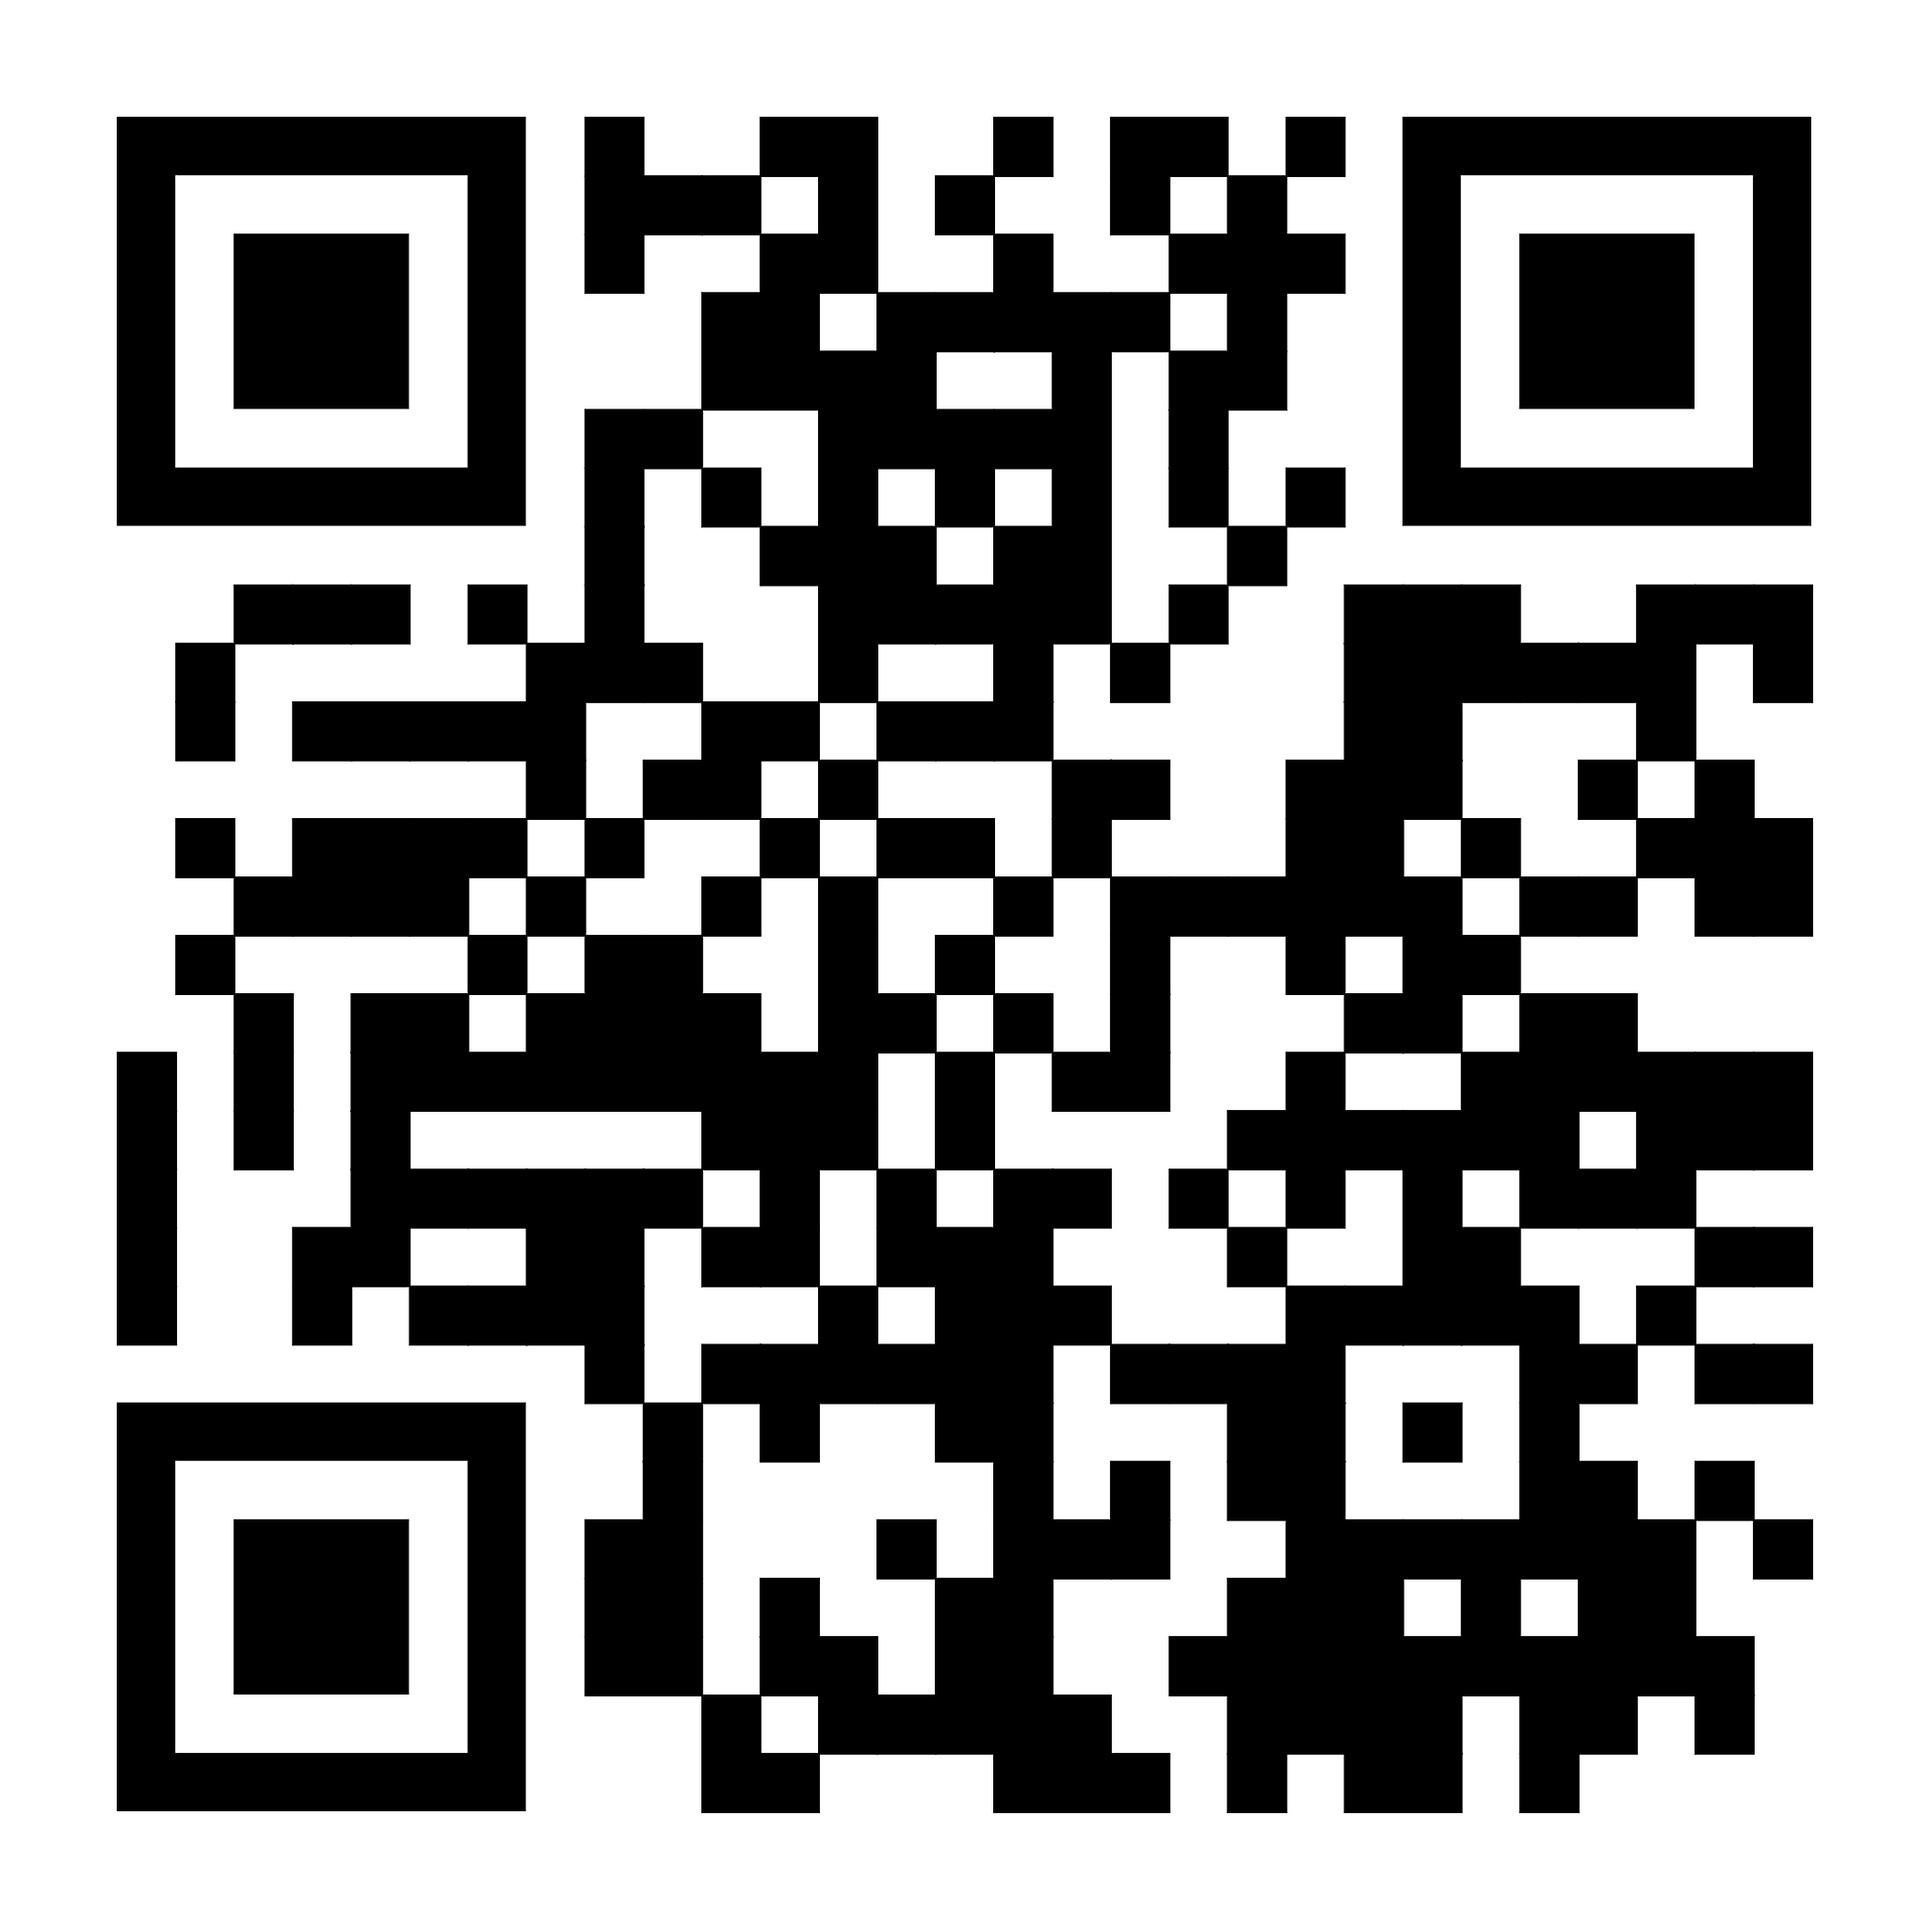
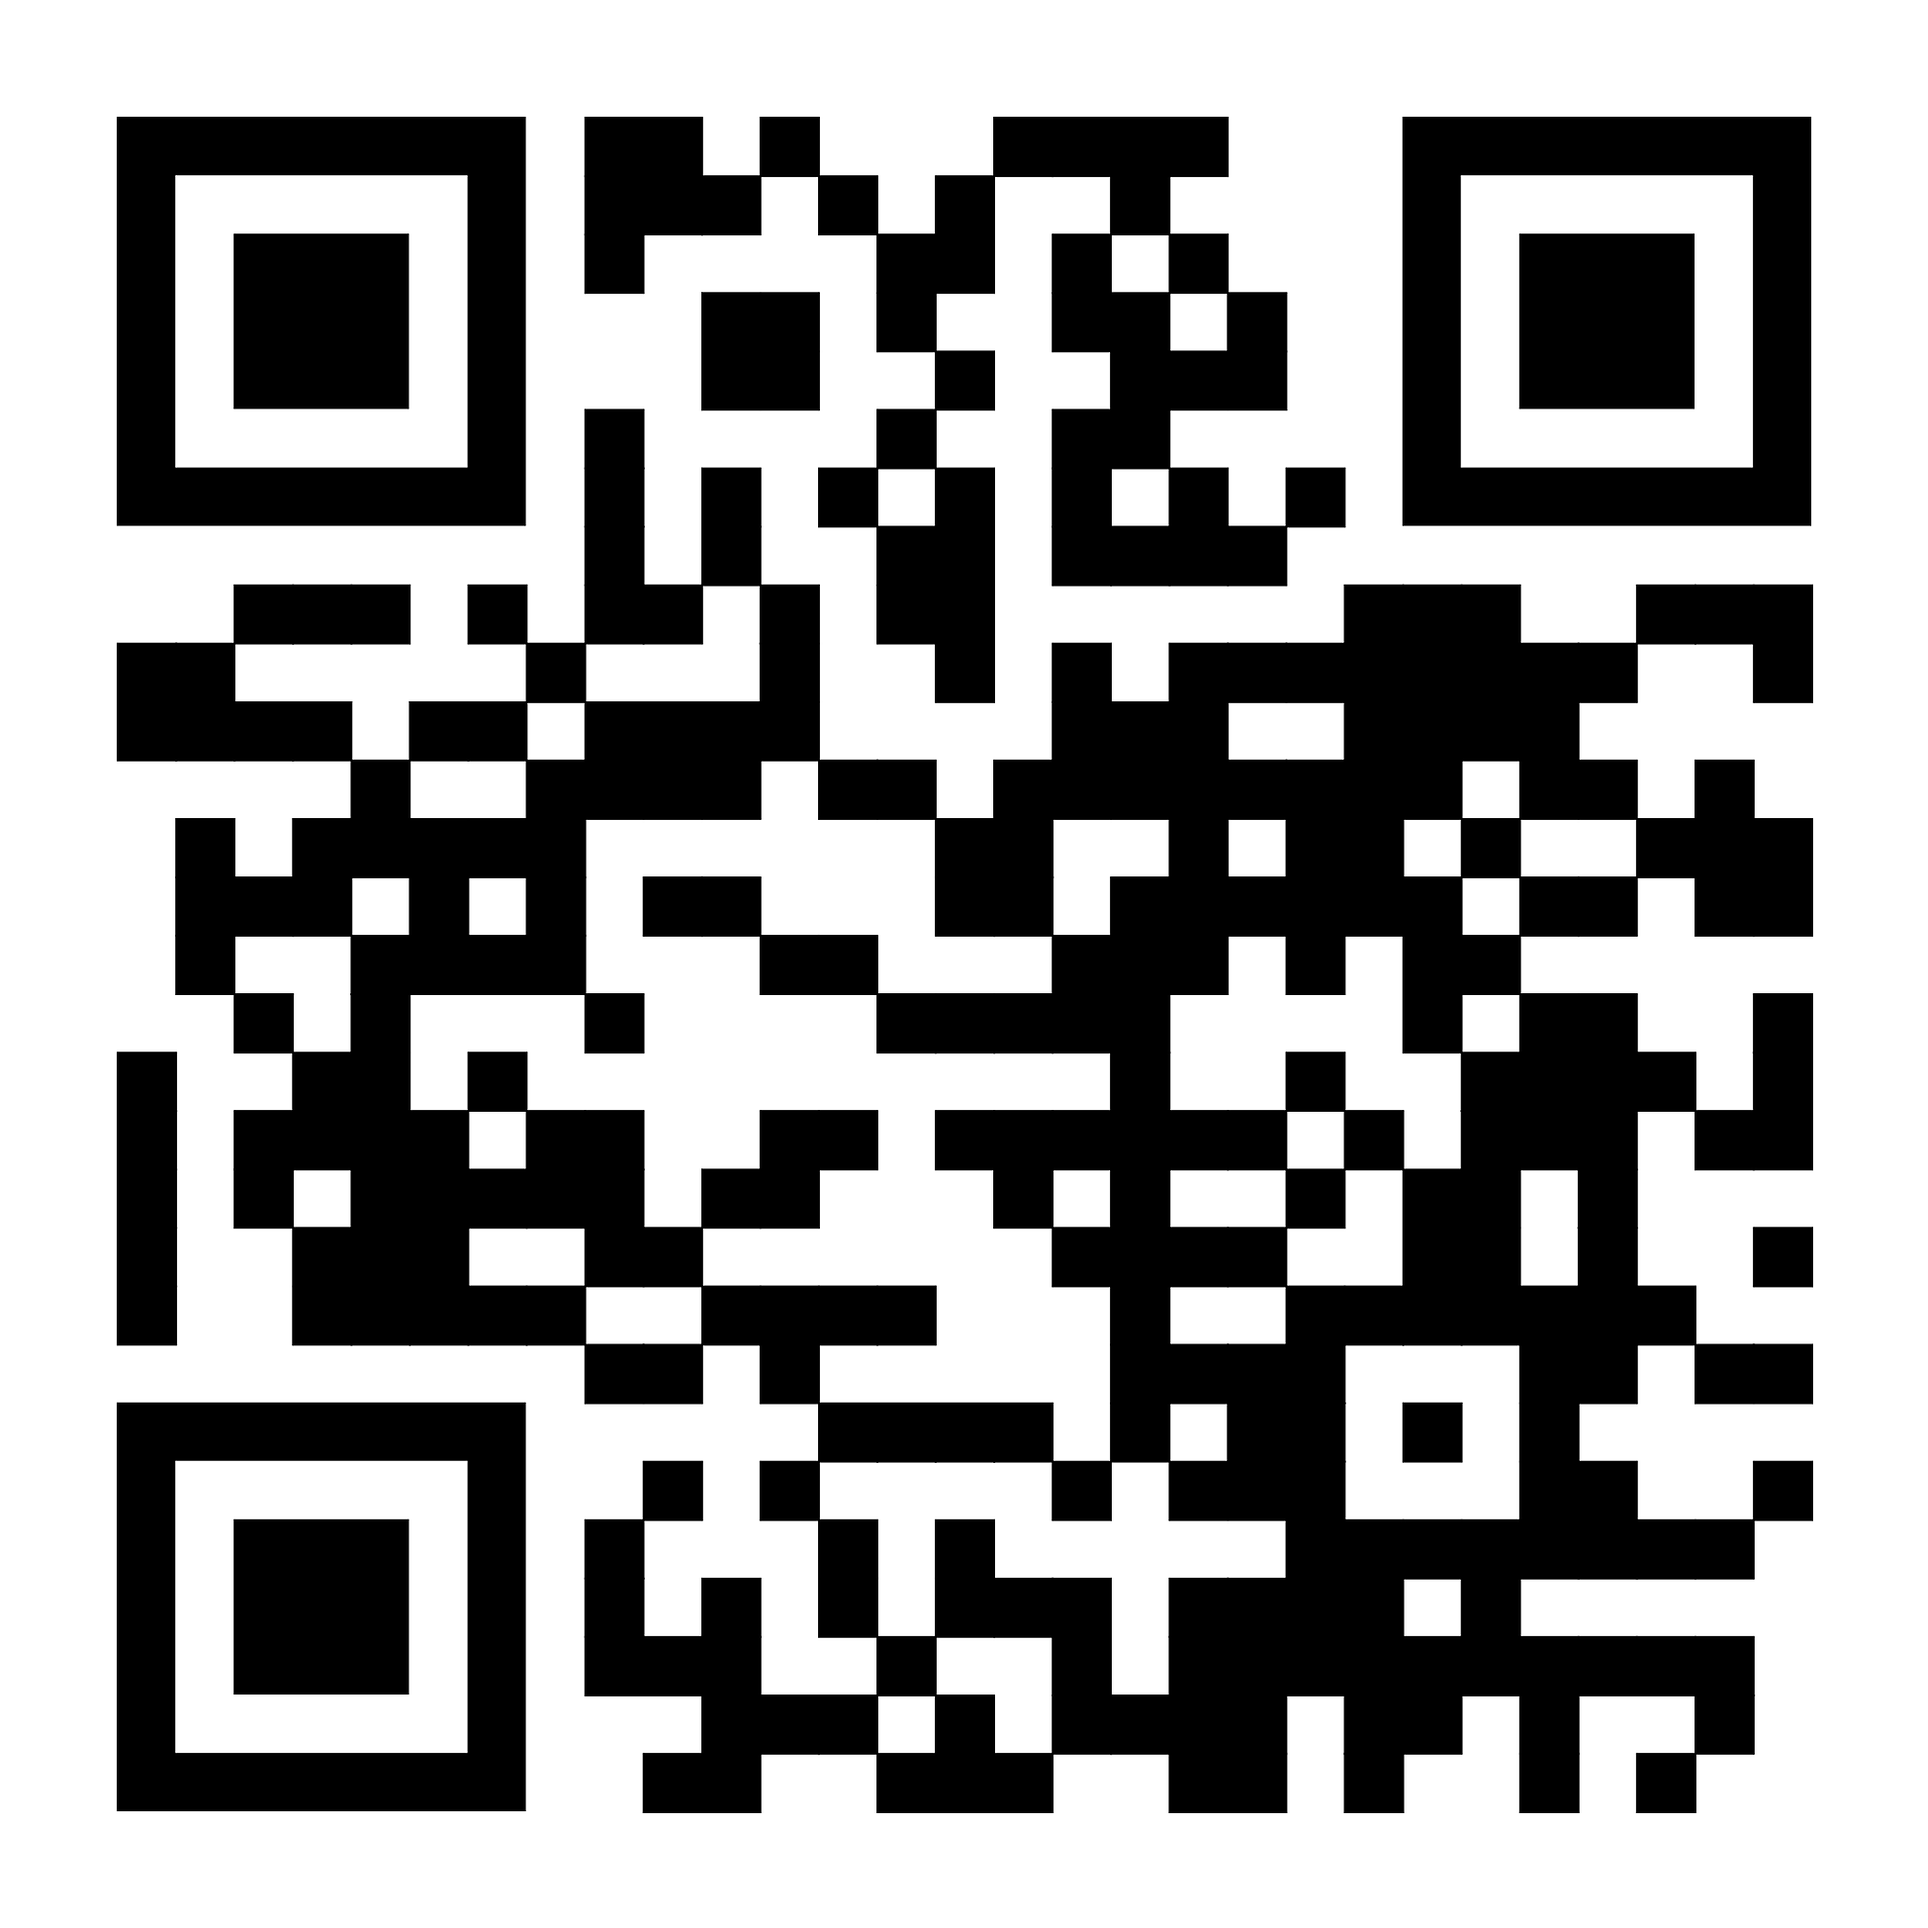
Adjust QR code

diff --git a/server.js b/server.js
@@ -8,7 +8,7 @@ const server = http.createServer(app);
 const io = socketIo(server);
 
 const PORT = process.env.PORT || 3000;
-const CONNECTION_KEY = 'allhands2024'; // Simple key for client connections
+const CONNECTION_KEY = 'tobiaslars'; // Simple key for client connections
 
 // Serve static files
 app.use(express.static('public'));
